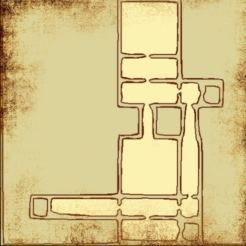
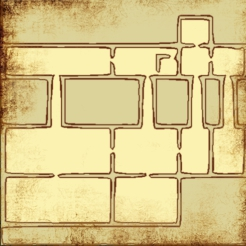
flipped and rotated templates working

diff --git a/site/htdocs/game-world/generateCircularDungeonMap.php b/site/htdocs/game-world/generateCircularDungeonMap.php
@@ -56,7 +56,7 @@ have some sort of persistence between dungeon visits. keep track of creature pop
 water or lava courses (?)
 when placing items, place them clear of templates
 offset doors (and connecting corridors)
-templates specific to a dungeon theme - have the dungeon's clean URL within the template folder (?)
+
 
 
 
@@ -2089,11 +2089,12 @@ $templateName = explode(".json",$filesFound[$randomFile])[0];
 
 $mapIdAbsolute = abs($thisMapsId);
 // check if this map level is within the min and max for this template:
-
+if(isset($dungeonDetails['the-barrow-mines']['suitableTemplates'][$templateName])) {
 if($mapIdAbsolute >= $dungeonDetails['the-barrow-mines']['suitableTemplates'][$templateName][0]) {
 if($mapIdAbsolute <= $dungeonDetails['the-barrow-mines']['suitableTemplates'][$templateName][1]) {
 
 array_push($templatesToUse, $templateName);
+}
 }
 }
 }
@@ -2129,7 +2130,7 @@ $templateItemsToAppend = '';
             $templateJSONFile = file_get_contents($fileToUse);
             $templateJSON = json_decode($templateJSONFile, true);
           
-if($debug) {  echo "<hr>loop ".$i."<br>";}
+
 
 $rotation = 1;
 $flip = 1;
@@ -2149,38 +2150,38 @@ switch ($rotation) {
         $templateJSON['template']['terrain'] = rotateArray90Clockwise($templateJSON['template']['terrain']);
 $templateJSON['template']['collisions'] = rotateArray90Clockwise($templateJSON['template']['collisions']);
 $templateJSON['template']['elevation'] = rotateArray90Clockwise($templateJSON['template']['elevation']);
-if($debug) { echo "90 clockwise<br>";}
+
         break;
     case 3:
      $templateJSON['template']['terrain'] = rotateArray90Anticlockwise($templateJSON['template']['terrain']);
 $templateJSON['template']['collisions'] = rotateArray90Anticlockwise($templateJSON['template']['collisions']);
 $templateJSON['template']['elevation'] = rotateArray90Anticlockwise($templateJSON['template']['elevation']);
-if($debug) { echo "90 anticlockwise<br>";}
+
         break;
     case 4:
      $templateJSON['template']['terrain'] = rotateArray180($templateJSON['template']['terrain']);
 $templateJSON['template']['collisions'] = rotateArray180($templateJSON['template']['collisions']);
 $templateJSON['template']['elevation'] = rotateArray180($templateJSON['template']['elevation']);
-if($debug) { echo "180 rotate<br>";}
+
         break;
 }
-if($debug) { echo "original template size: ".$templateNonRotatedWidth.", ".$templateNonRotatedHeight."<br>";}
+
   // determine this template's dimensions:
             $templateHeight = count($templateJSON['template']['terrain']);
             $templateWidth = count($templateJSON['template']['terrain'][0]);
 
-if($debug) { echo "rotated template size: ".$templateWidth.", ".$templateHeight."<br>";}
+
 
 // rotate items, npcs and hotspot positions:
 switch ($rotation) {
   case 2:
   for($j=0;$j<count($templateJSON['template']['npcs']);$j++) {
 $thisNPC = $templateJSON['template']['npcs'][$j];
-if($debug) { echo "npc: before ".$thisNPC['tileX'].", ".$thisNPC['tileY']."<br>";}
+
 $newPosition = rotateCoordinates90Clockwise(array($thisNPC['tileX'], $thisNPC['tileY']),$templateNonRotatedWidth,$templateNonRotatedHeight);
 $templateJSON['template']['npcs'][$j]['tileX'] = $newPosition[0];
 $templateJSON['template']['npcs'][$j]['tileY'] = $newPosition[1];
-if($debug) { echo "npc: after ".$newPosition[0].", ".$newPosition[1]."<br>";}
+
 }
 for($j=0;$j<count($templateJSON['template']['hotspots']);$j++) {
     $thisHotspot = $templateJSON['template']['hotspots'][$j];
@@ -2191,11 +2192,11 @@ for($j=0;$j<count($templateJSON['template']['hotspots']);$j++) {
 }
 for($j=0;$j<count($templateJSON['template']['items']);$j++) {
     $thisItem = $templateJSON['template']['items'][$j];
-      if($debug) {    echo "item: before ".$thisItem['tileX'].", ".$thisItem['tileY']."<br>";}
+   
     $newPosition = rotateCoordinates90Clockwise(array($thisItem['tileX'], $thisItem['tileY']),$templateNonRotatedWidth,$templateNonRotatedHeight);
     $templateJSON['template']['items'][$j]['tileX'] = $newPosition[0];
 $templateJSON['template']['items'][$j]['tileY'] = $newPosition[1];
-if($debug) { echo "item: after ".$newPosition[0].", ".$newPosition[1]."<br>";}
+
 }
   break;
   case 3:
@@ -2214,11 +2215,11 @@ for($j=0;$j<count($templateJSON['template']['hotspots']);$j++) {
 }
 for($j=0;$j<count($templateJSON['template']['items']);$j++) {
     $thisItem = $templateJSON['template']['items'][$j];
-  if($debug) {    echo "item: before ".$thisItem['tileX'].", ".$thisItem['tileY']."<br>";}
+
     $newPosition = rotateCoordinates90Anticlockwise(array($thisItem['tileX'], $thisItem['tileY']),$templateNonRotatedWidth,$templateNonRotatedHeight);
     $templateJSON['template']['items'][$j]['tileX'] = $newPosition[0];
 $templateJSON['template']['items'][$j]['tileY'] = $newPosition[1];
-if($debug) { echo "item: after ".$newPosition[0].", ".$newPosition[1]."<br>";}
+
 }
   break;
   case 4:
@@ -2237,17 +2238,17 @@ for($j=0;$j<count($templateJSON['template']['hotspots']);$j++) {
 }
 for($j=0;$j<count($templateJSON['template']['items']);$j++) {
     $thisItem = $templateJSON['template']['items'][$j];
-  if($debug) {    echo "item: before ".$thisItem['tileX'].", ".$thisItem['tileY']."<br>";}
+
     $newPosition = rotateCoordinates180(array($thisItem['tileX'], $thisItem['tileY']),$templateNonRotatedWidth,$templateNonRotatedHeight);
     $templateJSON['template']['items'][$j]['tileX'] = $newPosition[0];
 $templateJSON['template']['items'][$j]['tileY'] = $newPosition[1];
-if($debug) { echo "item: after ".$newPosition[0].", ".$newPosition[1]."<br>";}
+
 }
   break;
 }
 
 if($flip == 2) {
-  if($debug) {   echo "flip<br>";}
+
 $templateJSON['template']['terrain'] = flipArray($templateJSON['template']['terrain']);
 $templateJSON['template']['collisions'] = flipArray($templateJSON['template']['collisions']);
 $templateJSON['template']['elevation'] = flipArray($templateJSON['template']['elevation']);
@@ -2271,11 +2272,11 @@ for($j=0;$j<count($templateJSON['template']['hotspots']);$j++) {
 }
 for($j=0;$j<count($templateJSON['template']['items']);$j++) {
     $thisItem = $templateJSON['template']['items'][$j];
- if($debug) {    echo "item: before ".$thisItem['tileX'].", ".$thisItem['tileY']."<br>";}
+
     $newPosition = flipCoordinatesHorizontally(array($thisItem['tileX'], $thisItem['tileY']),$templateWidth,$templateHeight);
     $templateJSON['template']['items'][$j]['tileX'] = $newPosition[0];
 $templateJSON['template']['items'][$j]['tileY'] = $newPosition[1];
-if($debug) { echo "item: after ".$newPosition[0].", ".$newPosition[1]."<br>";}
+
 }
 }
 

diff --git a/site/htdocs/includes/dungeonMapConfig.php b/site/htdocs/includes/dungeonMapConfig.php
@@ -11,7 +11,8 @@ $dungeonDetails = array(
 'possibleItems' => '',
 'suitableTemplates' => array(
 	// template name => earliest level it can be encountered on, latest level it can be encountered on (INF or numeric):
-'mining-expedition' => array(1,INF)
+'mining-expedition' => array(1,INF),
+'pillar' => array(1,INF)
 	)
 	)
 	);
